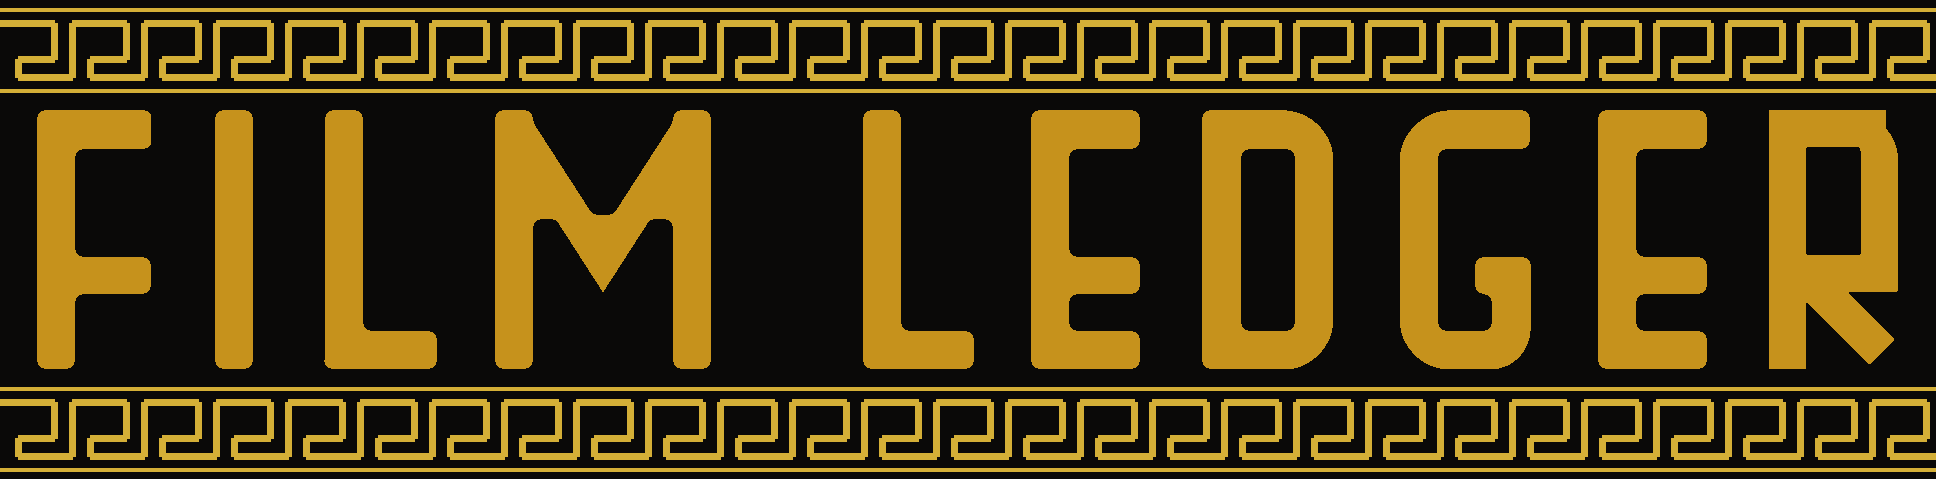
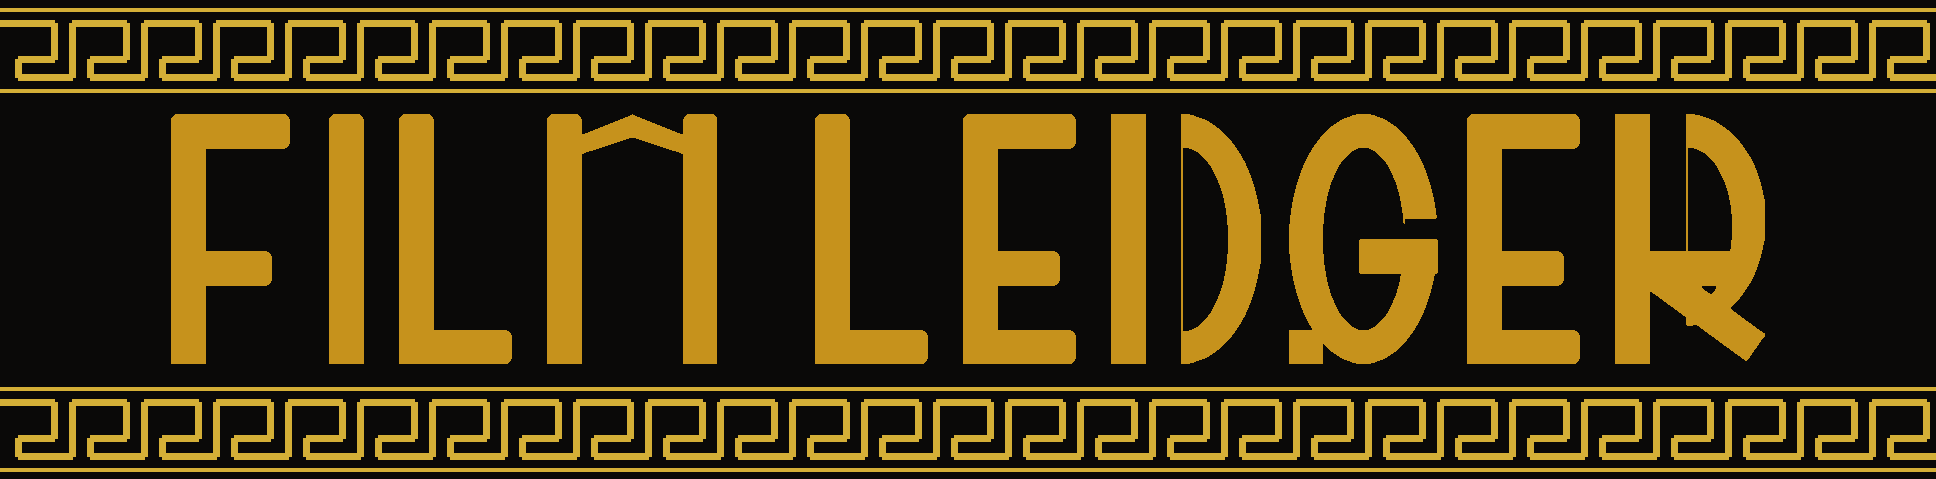
v5.31: uniform header letters
Every letter rebuilt to the same height, thickness, and curve.

Changed region(s): [[0.4029, 0.2046, 0.9917, 0.7891], [0.0, 0.2046, 0.3719, 0.7891]]

diff --git a/index.html b/index.html
@@ -14,8 +14,8 @@
 <body>
   <div class="sticky-top">
     <div class="brand">
-      <img class="brand-mark" src="film-ledger-title.png?v=530" alt="Film Ledger">
-      <span class="brand-ver">v5.30</span>
+      <img class="brand-mark" src="film-ledger-title.png?v=531" alt="Film Ledger">
+      <span class="brand-ver">v5.31</span>
     </div>
 
     <div class="search-bar">
@@ -60,6 +60,6 @@
     <div id="least" class="tabs"></div>
   </div>
 
-  <script src="app.js?v=530"></script>
+  <script src="app.js?v=531"></script>
 </body>
 </html>

diff --git a/app.js b/app.js
@@ -1733,7 +1733,7 @@ function renderSettings() {
       <p class="backup-note">${recent.length ? recent.length + ' recent searches saved on this device.' : 'No recent searches.'}</p>
       <button type="button" onclick="clearSearchHistory(); renderSettings();">Clear History</button>
     </div>
-    <p class="backup-note" style="margin-top:14px;">Film Ledger v5.30</p>
+    <p class="backup-note" style="margin-top:14px;">Film Ledger v5.31</p>
   `;
 }
 

diff --git a/service-worker.js b/service-worker.js
@@ -1,11 +1,11 @@
-const CACHE_NAME = 'film-ledger-v5.30';
+const CACHE_NAME = 'film-ledger-v5.31';
 const urlsToCache = [
   './',
   './index.html',
   './styles.css',
-  './app.js?v=530',
+  './app.js?v=531',
   './manifest.json',
-  './film-ledger-title.png?v=530'
+  './film-ledger-title.png?v=531'
 ];
 
 self.addEventListener('install', event => {
